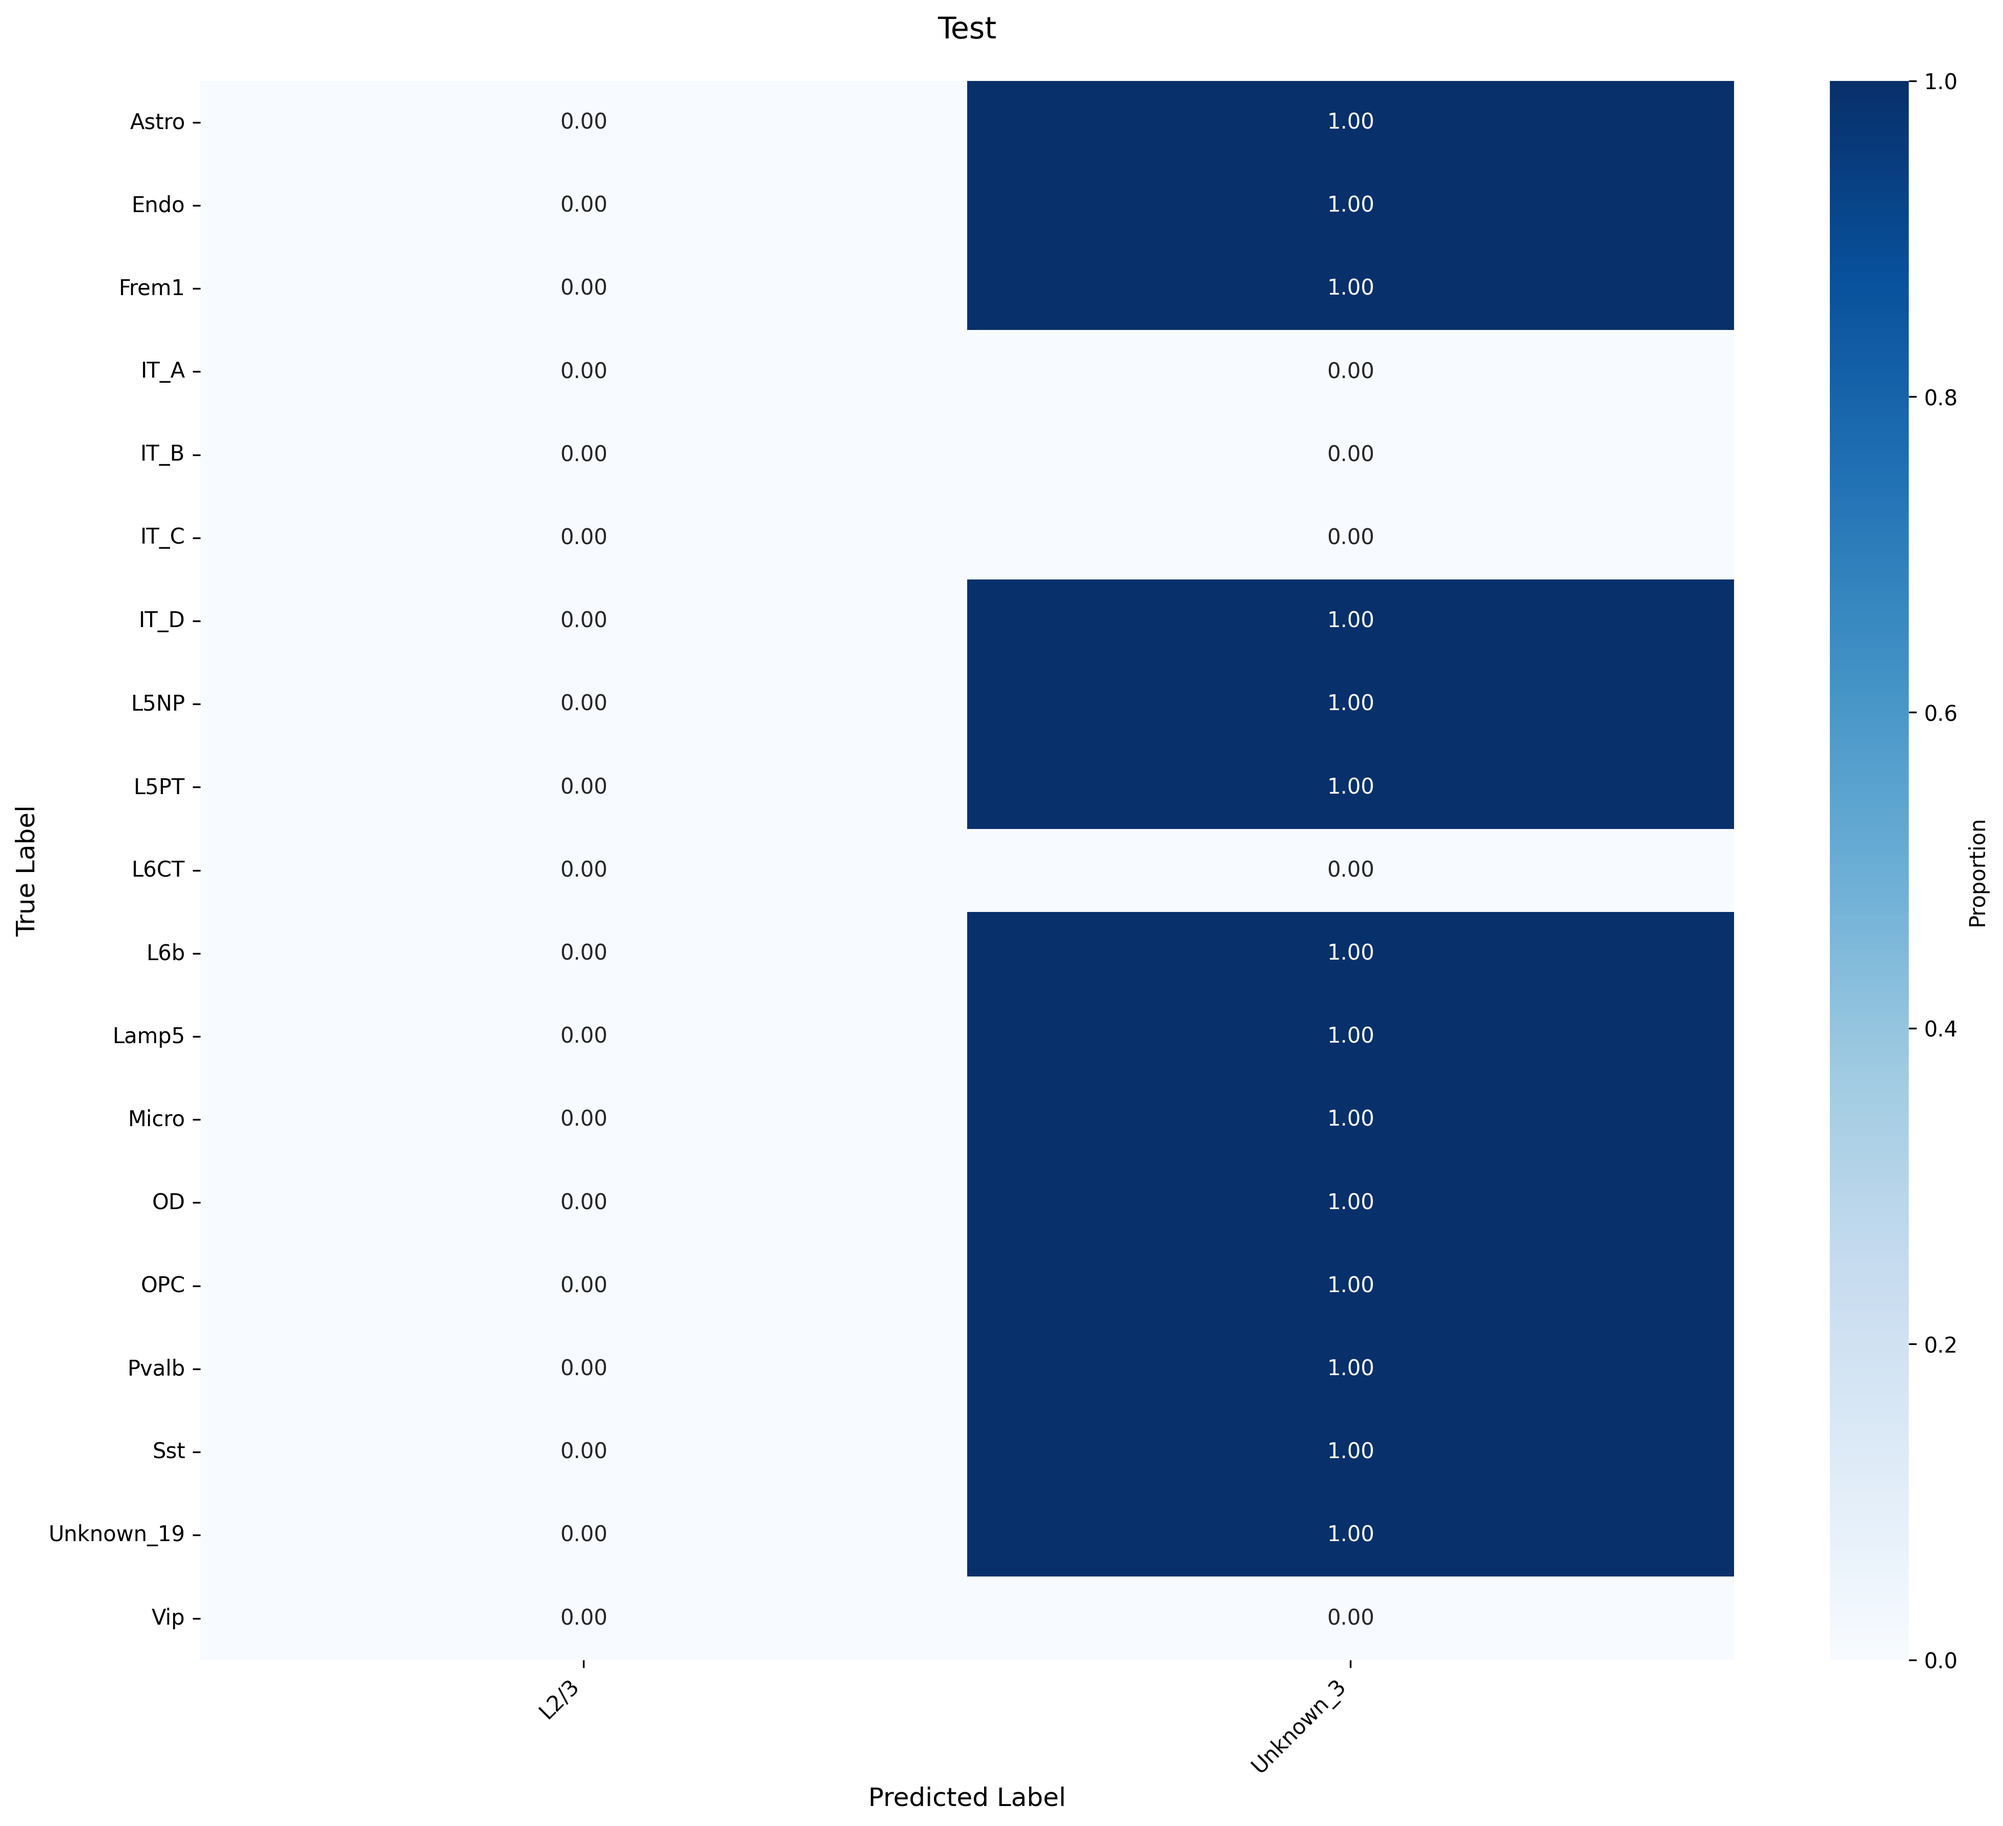
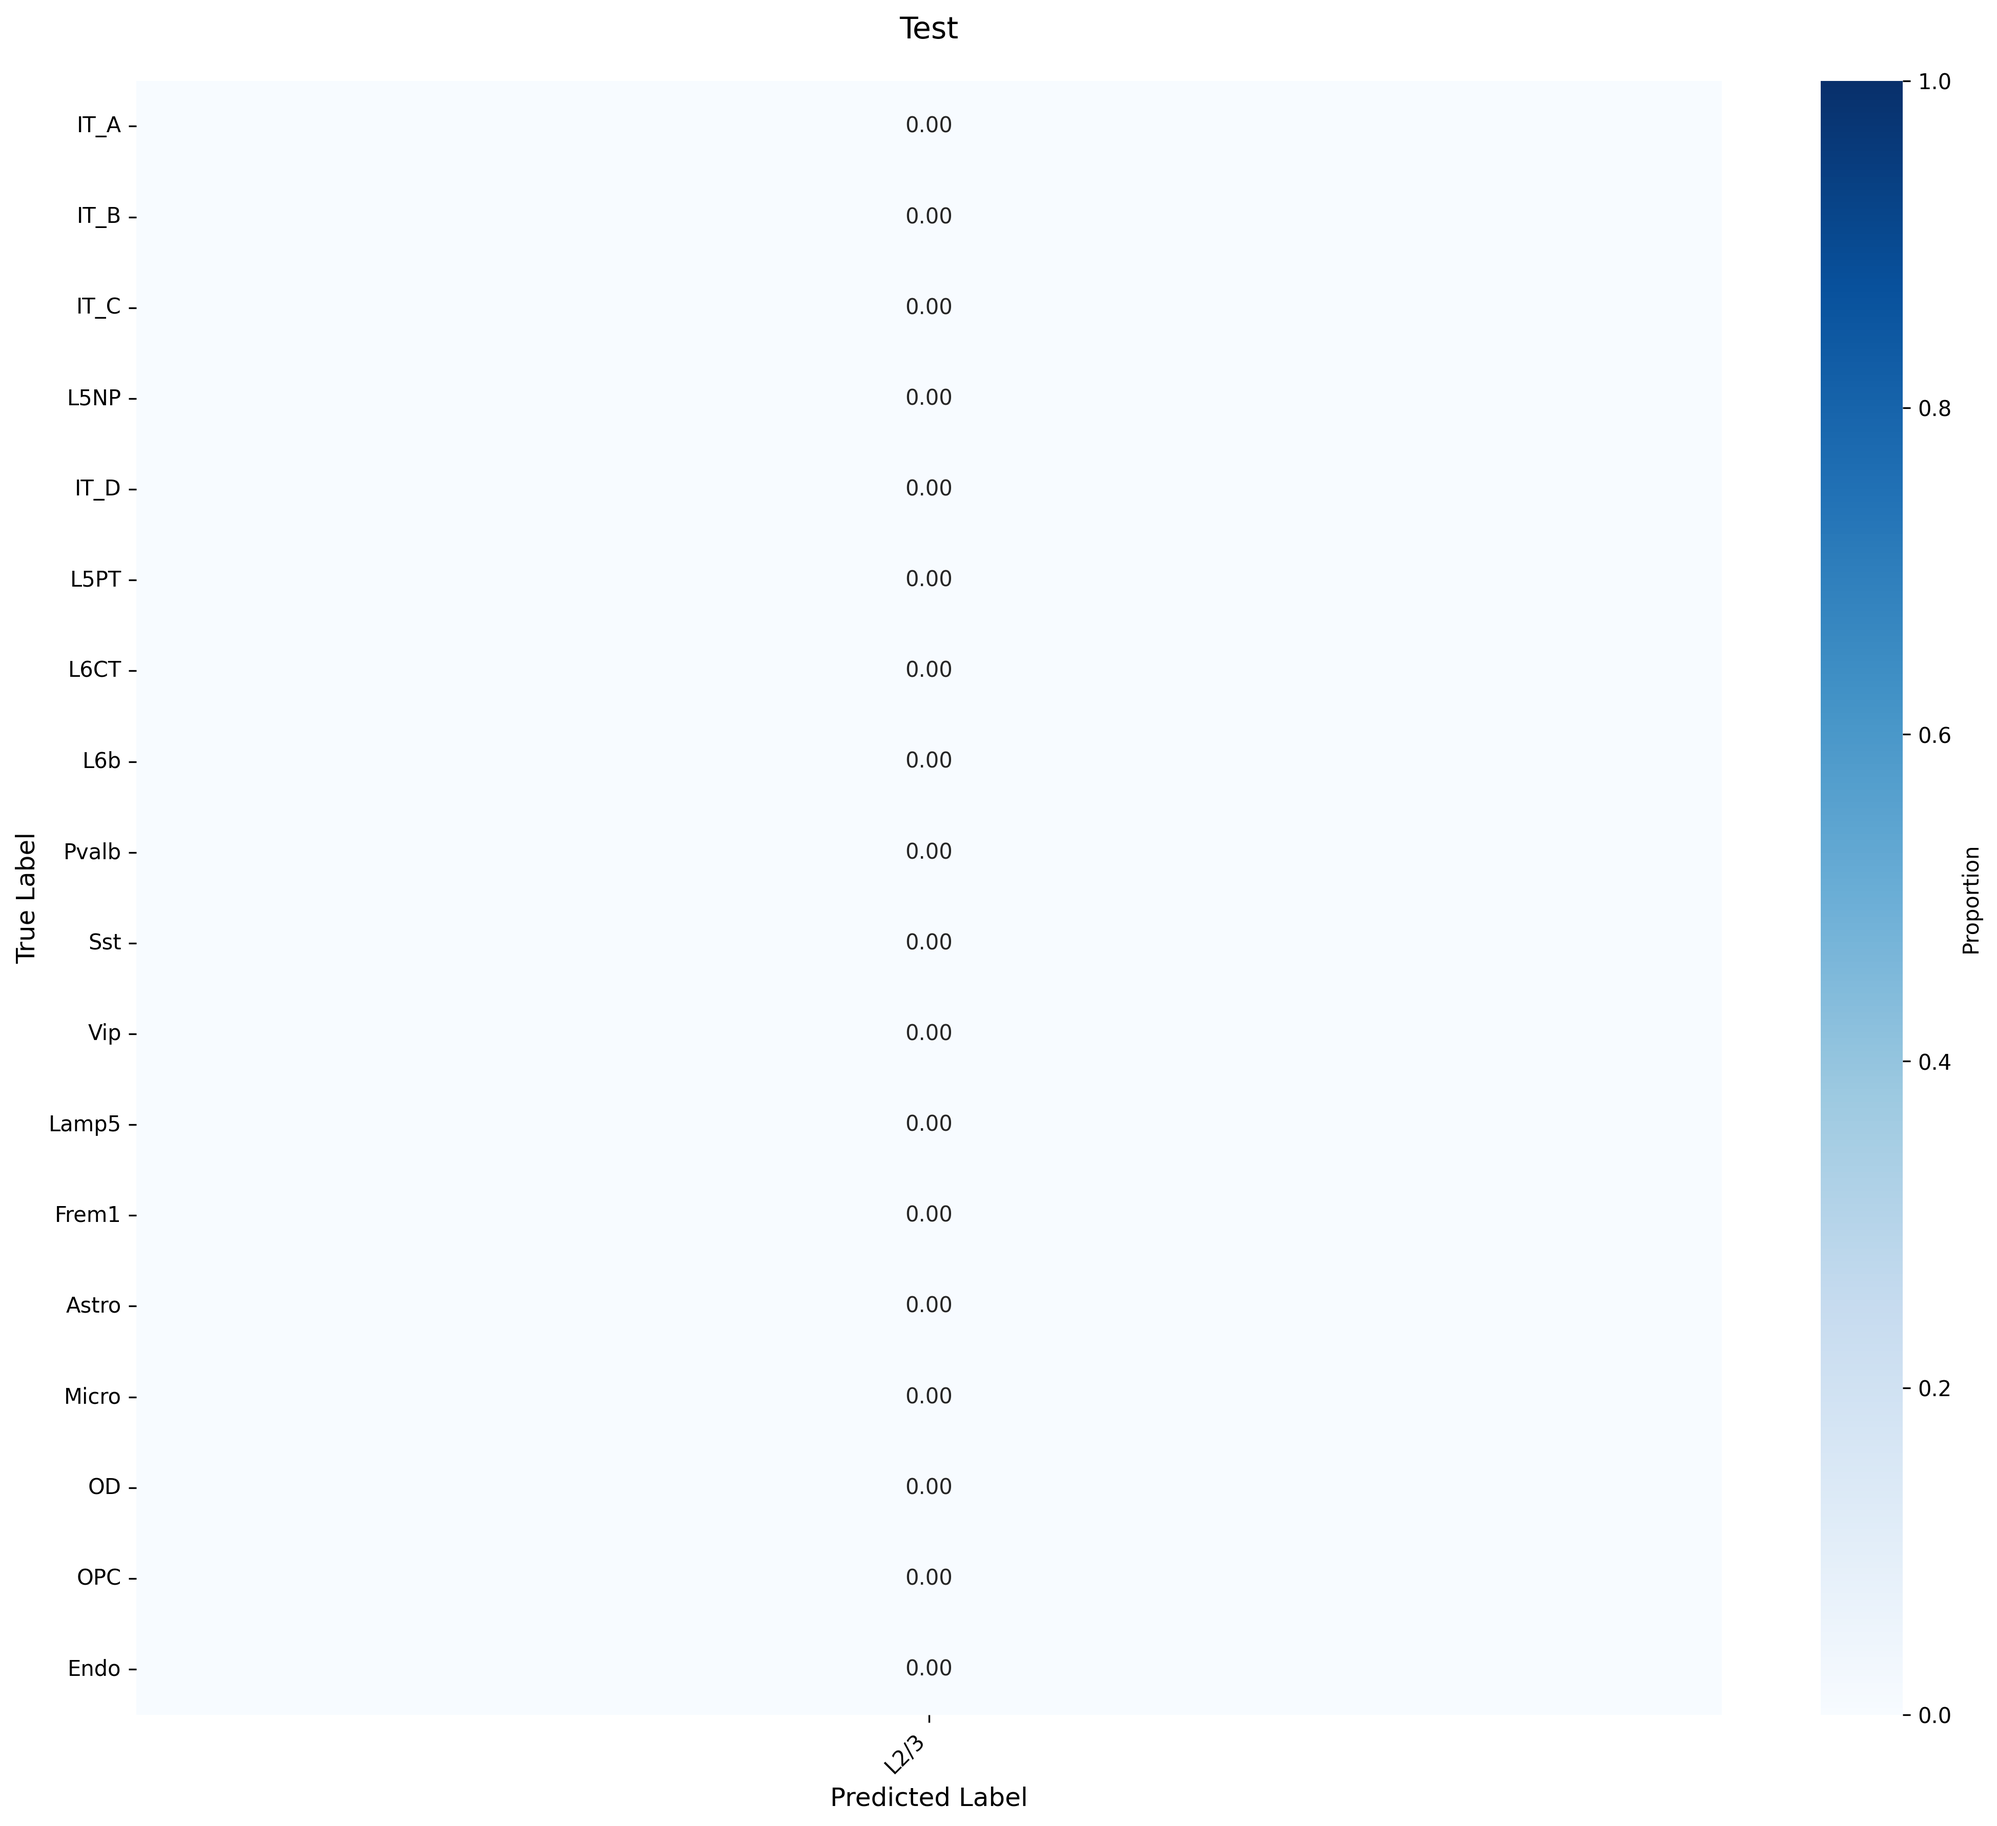
Test confusion matrix

diff --git a/src/analysis/visualization.py b/src/analysis/visualization.py
@@ -111,6 +111,7 @@ def plot_confusion_matrix(
     
     # Apply custom ordering if specified
     if row_order is not None:
+        print(row_order)
         # Filter to only include labels that exist in the data
         row_order_filtered = [r for r in row_order if r in cm_df.index]
         if row_order_filtered:
@@ -127,7 +128,7 @@ def plot_confusion_matrix(
     else:
         # Default: alphabetical
         cm_df = cm_df[sorted(cm_df.columns)]
-    
+    print(cm_df)
     # Plot
     plt.figure(figsize=figsize)
     sns.heatmap(

diff --git a/tests/test_viz.py b/tests/test_viz.py
@@ -7,7 +7,7 @@ results_dir = Path("results/mouse_opossum")
 run_dirs = sorted(results_dir.glob("scgpt_*"))
 latest_run = run_dirs[-1]
 cfg = load_experiment_config(Path("configs/experiments/mouse_to_opossum.yaml"))
-cm_cfg = cfg.get('confusion_matrix', {})
+cm_cfg = cfg.get('output', {}).get('confusion_matrix', {})
 row_order = cm_cfg.get('row_order', None)
 col_order = cm_cfg.get('col_order', None)
 
